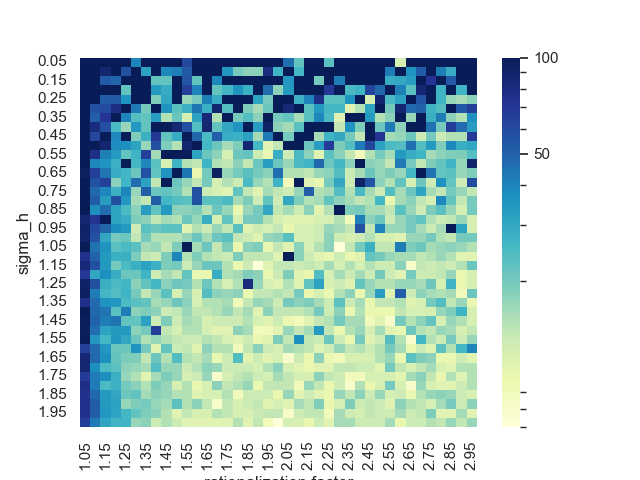
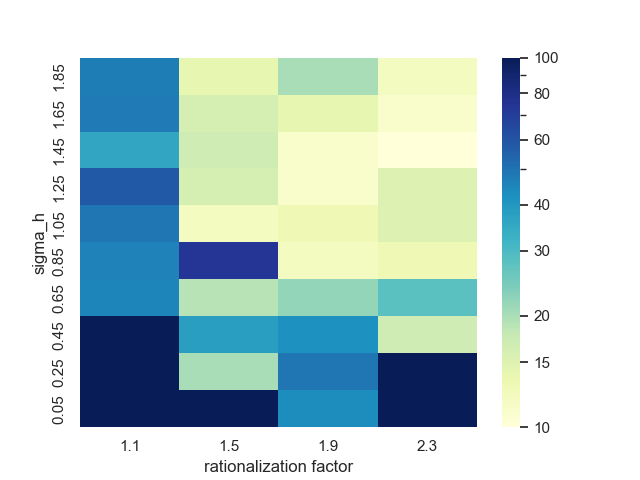
Cleanup and invert y axis on heatmap

diff --git a/simulated-agent-model/convergenceHeatmap.py b/simulated-agent-model/convergenceHeatmap.py
@@ -1,3 +1,4 @@
+from ast import parse
 import seaborn as sns; sns.set_theme()
 import matplotlib.pyplot as plt
 import argparse
@@ -5,10 +6,9 @@ import pandas as pd
 
 from model import runModel
 
-from matplotlib.colors import LogNorm, Normalize
-from matplotlib.ticker import MaxNLocator
+from matplotlib.colors import LogNorm
 
-fineHeatMap = True
+fineHeatMap = False
 if fineHeatMap:
   defaultSigmaHRange = [x/20.0 for x in range(1, 61, 1)]
   defaultrfRange = [x/20.0 for x in range(21, 100, 1)]
@@ -17,15 +17,27 @@ else:
   defaultrfRange = [x/10.0 for x in range(11, 25, 4)]
 
 def main(args):
-  DF = makeDFs(args.numVoters, iterations=args.iterations)
-  sns.heatmap(DF, cmap="YlGnBu", norm=LogNorm(), cbar_kws={'ticks': [5,10,20,40,60,80,100], 'format':'%.i'})
+  if args.loadFile == None:
+    DF = makeDFs(args.numVoters, iterations=args.iterations, toMean=args.toMean)
+
+    filePath = '../figs/simulation-figs/Heatmaps/{}-{}-iter-Heat'.format(args.numVoters, args.iterations)
+
+    # save and read back in data
+    DF.to_csv(filePath+'.csv')
+  else:
+    filePath = '../figs/simulation-figs/Heatmaps/' + args.loadFile
+  DFLoad = pd.read_csv(filePath+'.csv', header=0, index_col=0)
+
+  sns.heatmap(DFLoad, cmap="YlGnBu", norm=LogNorm(), cbar_kws={'ticks': [10,15,20,30,40,60,80,100], 'format':'%.i'})
   plt.xlabel("rationalization factor")
   plt.ylabel("sigma_h")
-  plt.savefig('../figs/simulation-figs/Heatmaps/{}-{}-iter-Heat.png'.format(args.numVoters, args.iterations))
+  ax = plt.gca()
+  ax.invert_yaxis()
+  plt.savefig(filePath+'.png')
   plt.clf()
 
-def makeDFs(numVoters, sigmaHRange=defaultSigmaHRange, rfRange=defaultrfRange, iterations=3):
-  numIterToConverge = [[runModel(x, y, numVoters, iterations=iterations, convergence=True) for y in rfRange] for x in sigmaHRange]
+def makeDFs(numVoters, sigmaHRange=defaultSigmaHRange, rfRange=defaultrfRange, iterations=3, toMean=False):
+  numIterToConverge = [[runModel(x, y, numVoters, iterations=iterations, convergence=True, toMean=toMean) for y in rfRange] for x in sigmaHRange]
   
   # Make pandas DF for plot
   colLabels = list(map(str, rfRange))
@@ -37,6 +49,7 @@ if __name__ == "__main__":
     parser = argparse.ArgumentParser()
     parser.add_argument("iterations", help="Number of iterations per simulation.", type=int)
     parser.add_argument("numVoters", help="Number of agents to initialize.", type=int)
+    parser.add_argument("--loadFile", help="If given load data from csv file, otherwise run model. Give as just filename in the Heatmaps directory, w/o '.csv'")
     parser.add_argument("--toMean", "-m", help="Parties go to their voter bases mean instead of vote maximizing ideology.", action="store_true")
     args = parser.parse_args()
     main(args)
